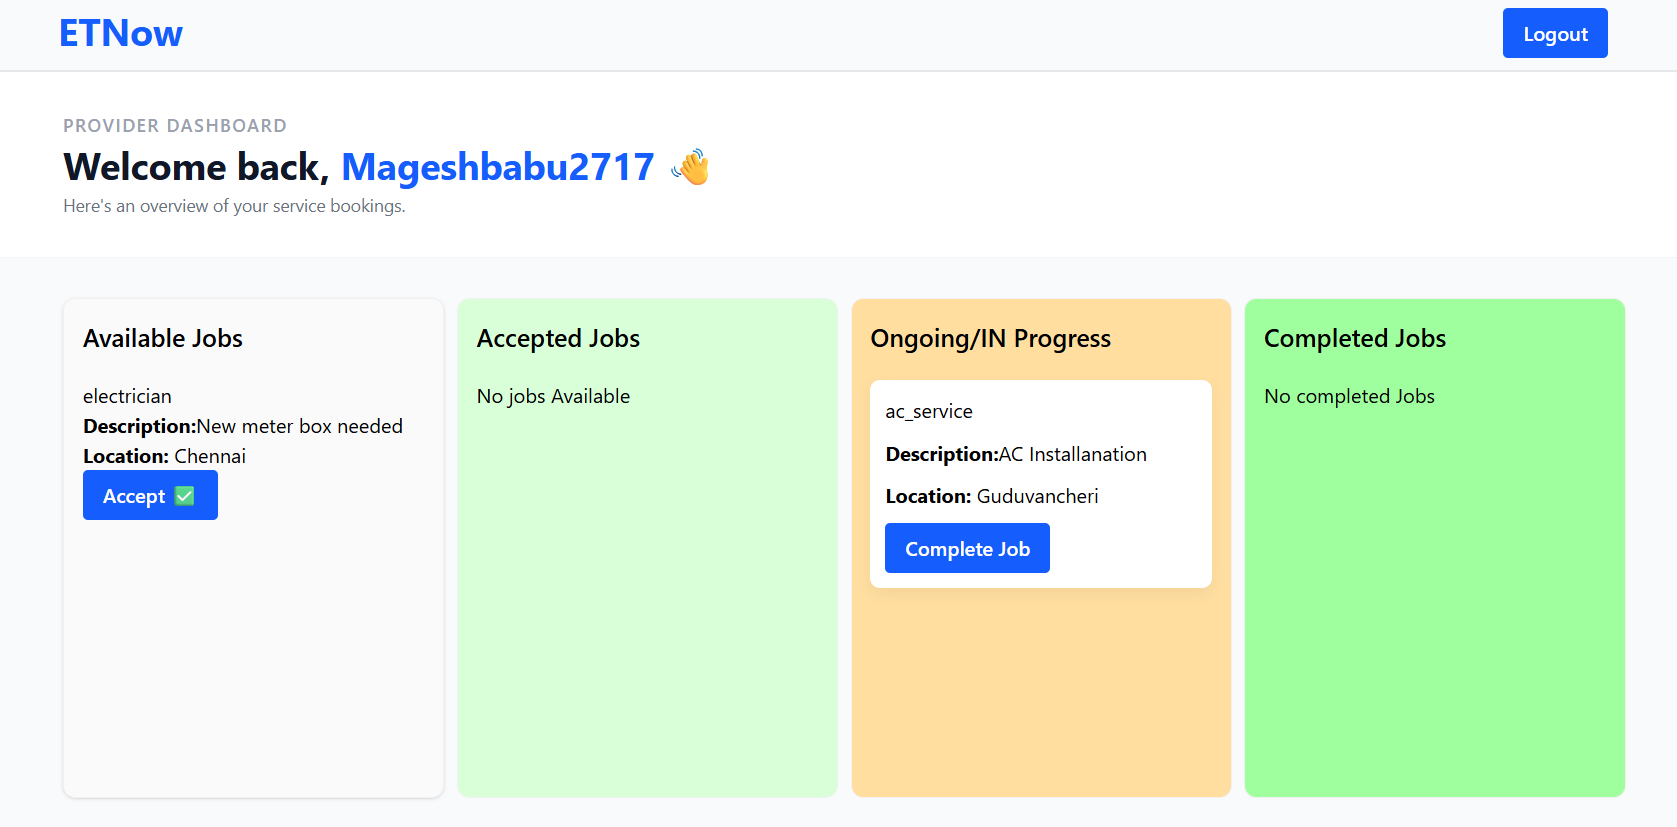
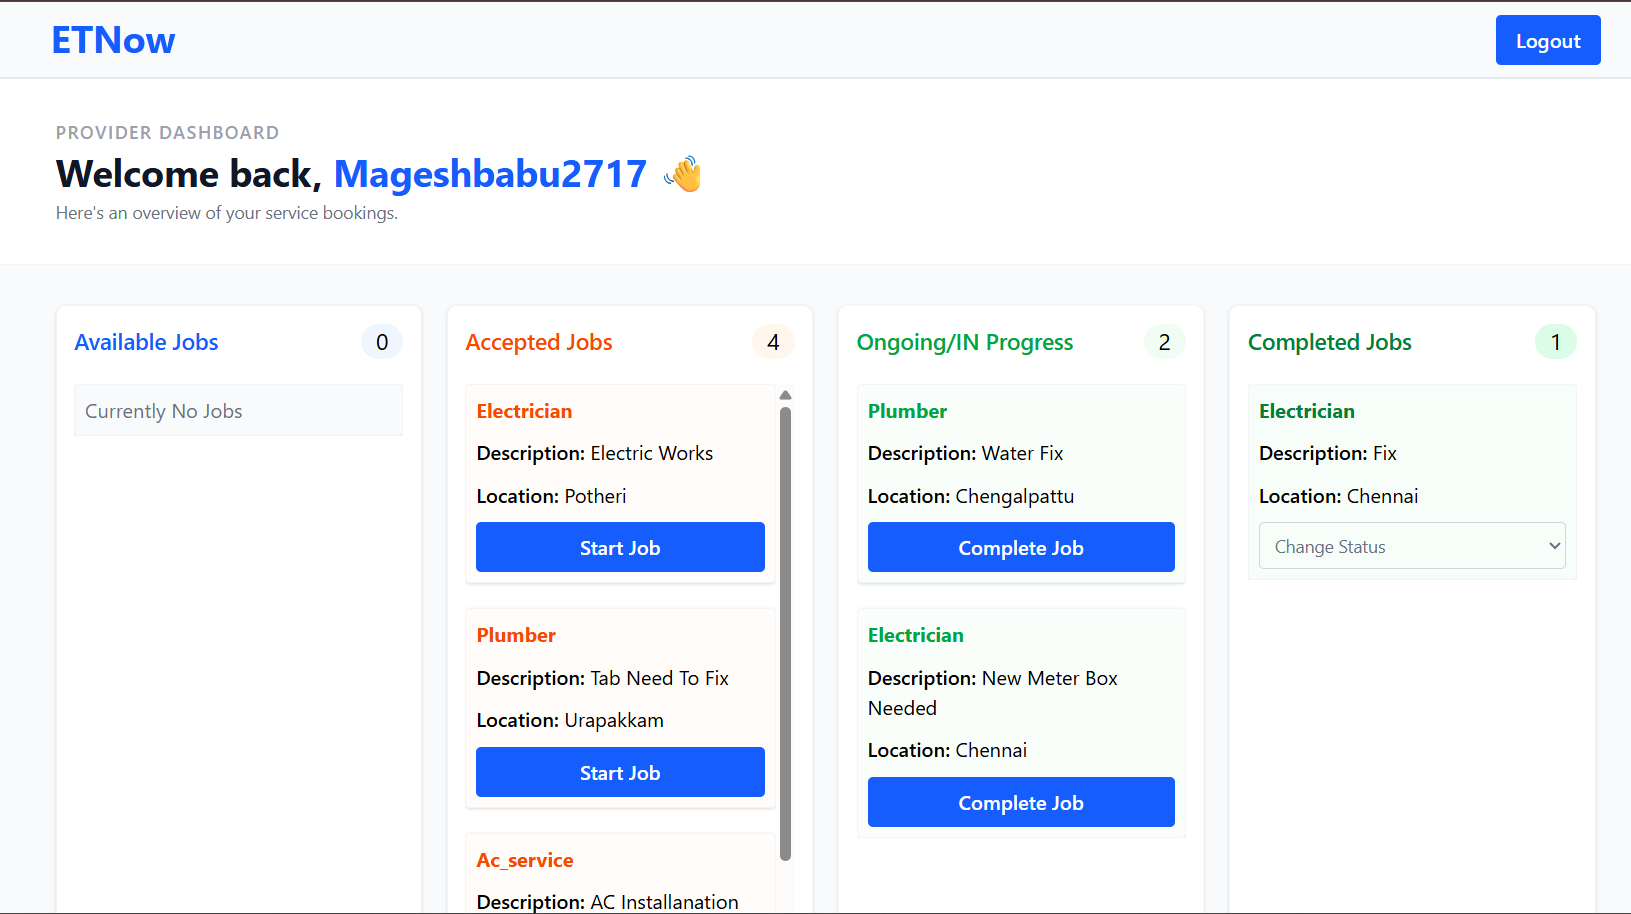
Fix: Final cleanup and error handling

diff --git a/README.md b/README.md
@@ -6,14 +6,12 @@ A full-stack MVP web application that connects customers with home service provi
 
 ## 🚀 Live Demo
 
-> _Coming soon 
-
+https://etnow-service-booking-platform-roan.vercel.app/
 ---
 
 ## 📸 Screenshots
-
-![alt text](src/assets/Register.png)
 ![alt text](src/assets/Login.png)
+![alt text](src/assets/Register.png)
 ![alt text](src/assets/ProviderDashboard.png)
 ![alt text](src/assets/UserDashboard.png)
 